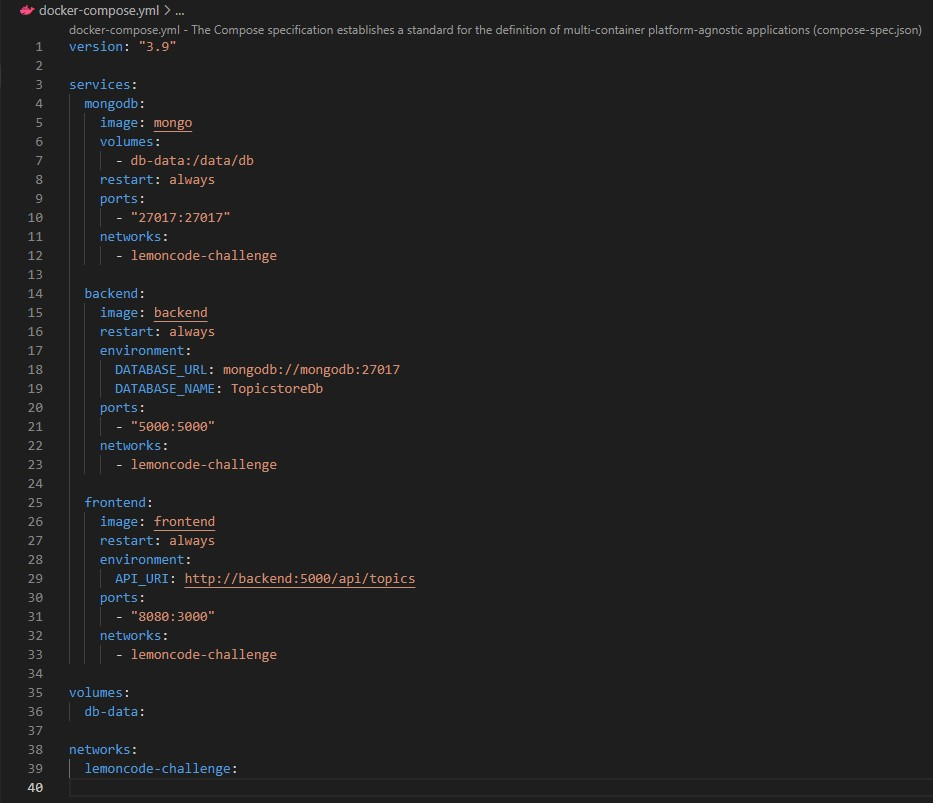
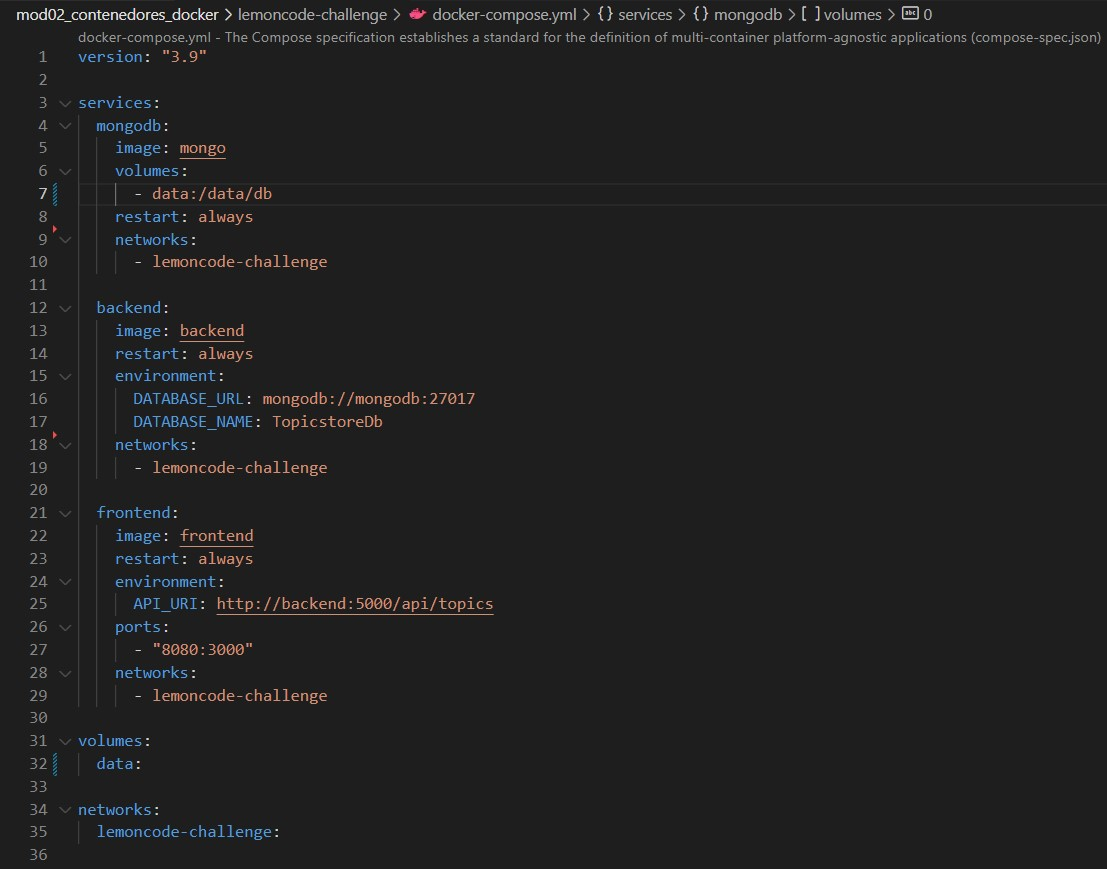
correcciones

Changed region(s): [[0.0, 0.0, 0.9946, 0.9963]]

diff --git a/mod02_contenedores_docker/README.md b/mod02_contenedores_docker/README.md
@@ -56,7 +56,7 @@ A continuación se describen los pasos seguidos para resolver el ejercicio
 
 - CREAR CONTENEDOR MONGO CON VOL Y RED CREADAS EN LOS PASOS ANTERIORES
 
-`$ docker run -d --name some-mongo --mount source=data,target=/data/db --network=lemoncode-challenge -p 27017:27017 mongo`
+`$ docker run -d --name some-mongo --mount source=data,target=/data/db --network=lemoncode-challenge mongo`
 
 - CREAR DOCKERFILE BACKEND
 
@@ -98,7 +98,7 @@ NOTA: El dockerfile está disponible en el directorio lemoncode-challenge > node
 
 - CREAR CONTENEDOR BACKEND topics-api
 
-`$ docker run -d -e DATABASE_URL="mongodb://some-mongo:27017" --name  topics-api --network=lemoncode-challenge -p 5000:5000 backend`
+`$ docker run -d -e DATABASE_URL="mongodb://some-mongo:27017" --name  topics-api --network=lemoncode-challenge backend`
 
 ![contenedor backend](/mod02_contenedores_docker/img/contenedor_backend.jpg)
 
@@ -110,15 +110,22 @@ NOTA: El dockerfile está disponible en el directorio lemoncode-challenge > node
 
 - COMPROBAR QUE ESTÁ FUNCIONANDO
 
-Desde el host, ejecutamos los curl siguientes para meter datos
-
-`curl -d '{"Name":"Devops"}' -H "Content-Type: application/json" -X POST http://localhost:5000/api/topics`
-
-`curl -d '{"Name":"K8s"}' -H "Content-Type: application/json" -X POST http://localhost:5000/api/topics`
-
-Ahora comprobamos que se ven en el navegador
+Si abrimos el navegador web y ejecutamos http://localhost:8080 veremos que funciona pero no tenemos datos.
 
 ![localhost8080](/mod02_contenedores_docker/img/localhost_8080.jpg)
+
+Para añadir datos debemos hacer lo pasos siguientes:
+
+- Ejecutamos un `docker exec -it some-mongo bash` para abrir una shell en el contenedor de mongo
+- Ejecutamos la línea de comandos de mongo con `mongosh`
+- Ejecutamos un `use TopicstoreDb` para crear la base de datos
+- Ejecutamos un `db.Topics.insert ( {"_id": "$oid", "Name" : "Contenedores"} )` para añadir datos (esto crea automáticamente la colección Topics)
+
+![Insertar datos en mongo](/mod02_contenedores_docker/img/insert_data_mongo.jpg)
+
+Si ahora volvemos al navegador y refrescamos
+
+![localhost8080 con datos](/mod02_contenedores_docker/img/localhost_8080_data.jpg)
 
 ## Ejercicio 2
 
@@ -146,11 +153,14 @@ Abrimos en un navegador localhost:8080
 
 ![localhost8080](/mod02_contenedores_docker/img/localhost_8080_compose.jpg)
 
-Lanzamos los siguientes curl en nuestro host para cargar datos
+Ahora vamos a cargar datos para ello hacemos lo siguiente:
 
-`curl -d '{"Name":"Devops"}' -H "Content-Type: application/json" -X POST http://localhost:5000/api/topics`
+- Ejecutamos un `docker exec -it lemoncode-challenge-mongodb-1 bash` para abrir una shell en el contenedor de mongo
+- Ejecutamos la línea de comandos de mongo con `mongosh`
+- Ejecutamos un `use TopicstoreDb` para crear la base de datos
+- Ejecutamos un `db.Topics.insert ( {"_id": "$oid", "Name" : "Docker"} )` para añadir datos (esto crea automáticamente la colección Topics)
 
-`curl -d '{"Name":"K8s"}' -H "Content-Type: application/json" -X POST http://localhost:5000/api/topics`
+![Cargar Datos en Mongo](/mod02_contenedores_docker/img/insert_data_mongo_compose.jpg)
 
 Refrescamos la página y vemos los datos.
 
@@ -162,7 +172,7 @@ Refrescamos la página y vemos los datos.
 
 Ejecutamos también un docker ps -a para ver que se han parado
 
-![docker-compose down](/mod02_contenedores_docker/img/docker_compose_stop.jpg)
+![docker-compose stop](/mod02_contenedores_docker/img/docker_compose_stop.jpg)
 
 - ELIMINAR CONTENEDORES PARADOS
 
@@ -172,8 +182,22 @@ Ejecutamos también un docker ps -a para ver que se han parado
 
 En el caso que los contenedores estuvieran corriendo y deseáramos pararlos y eliminarlos, ejecutaríamos el comando siguiente.
 
-`$ docker compose shutdown`
+`$ docker compose down`
 
-![docker compose shutdown](/mod02_contenedores_docker/img/docker_compose_down.jpg)
+![docker compose down](/mod02_contenedores_docker/img/docker_compose_down.jpg)
 
 Como se aprecia en la imagen no sólo se eliminan los contenedores, también se elimina la red.
+
+Antes de finalizar, vamos a mejorar el docker-compose añadiendo el campo depends_on en el frontend y backend. Esta opción establece el orden de creación y eliminación como vamos a ver a continuación.
+
+![docker compose 2](/mod02_contenedores_docker/img/docker_compose2.jpg)
+
+Cuando ejecutamos `docker compose -f docker-compose-v2.yml up` para levantar el entorno, si comparamos con la salida del que se ejecuta en pasos anteriores, se aprecia como se crea primero el contenedor de mongo, luego el de backend y por último el de frontend, cración más lógica y no aleatoria gracias a la opción de depends_on. El frontend dependerá del backend y éste del mongo.
+
+![docker compose 2 up ](/mod02_contenedores_docker/img/docker_compose2_up.jpg)
+
+Ahora si eliminamos el entorno ejecutando `docker compose -f docker-compose-v2.yml down` veremos que el proceso es inverso, pimero se elimina el contenedor de frontend, luego el backend y por último el de mongo.
+
+![docker compose 2 down ](/mod02_contenedores_docker/img/docker_compose2_down.jpg)
+
+Por último aclarar que se usa la opción -f al ejecutar el docker-compose para indicar el fichero que debe usar.
